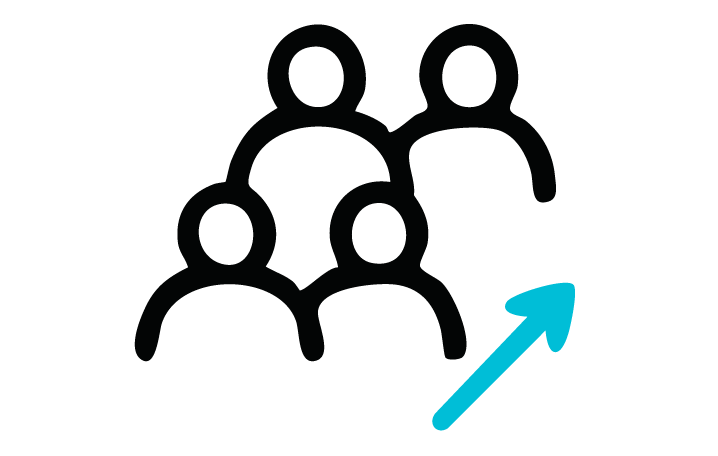
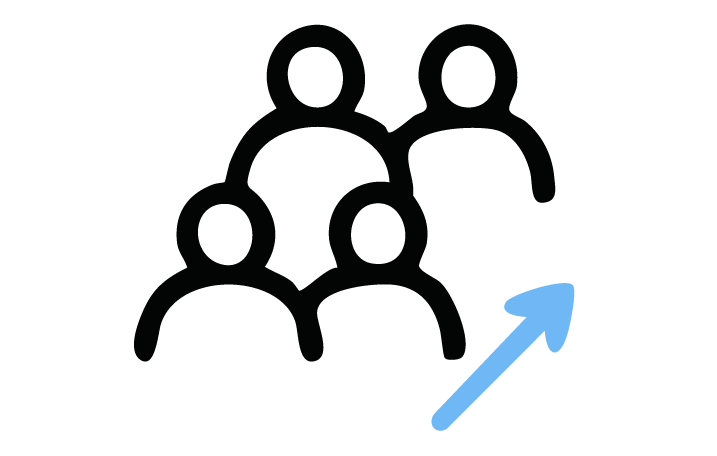
add texts

diff --git a/index.html b/index.html
@@ -108,7 +108,7 @@
 							<div class="container">
 								<div class="slider-caption slider-caption-center">
 									<div>
-										<h3 class="font-primary text-transform-none" style="font-size: 2.5rem; letter-spacing: -1px;line-height: 1.2em;color: #00bed7;">VANTAGE RESOURCE GROUP</h3>
+										<h3 class="font-primary text-transform-none" style="font-size: 2.5rem; letter-spacing: -1px;line-height: 1.2em;color: #6fb7f5;">VANTAGE RESOURCE GROUP</h3>
 										<h3 class="font-primary text-transform-none" style="font-size: 3rem; letter-spacing: -1px;line-height: 1.2em;">EMPOWERING LEADERS,<br>ENHANCING PERFORMANCE</h3>
 										<p class="fw-light font-primary d-none d-sm-block">Tailored leadership development and coaching for those <br>who build systems, serve people, and shape the future.</p>
 										<a href="#" class="button button-rounded button-large text-transform-none ls-0 font-primary">Let's talk</a>
@@ -175,7 +175,7 @@
 					</div>
 					<div class="row">
 						<div class="text-center col-lg-8 offset-lg-2 mb-5">
-							<h3 class="text-rotater font-secondary" data-separator="," data-rotate="fadeInRight" data-speed="3500"><span style="color: #00bed7;font-weight: 600;">Vantage Resource Group</span> helps leaders move beyond constant reaction and toward lasting impact. Through executive coaching, leadership development, culture engagement, and speaking, we help leaders and teams build clarity, ownership, and the capacity to lead sustainably.</h3>
+							<h3 class="text-rotater font-secondary" data-separator="," data-rotate="fadeInRight" data-speed="3500"><span style="color: #6fb7f5;font-weight: 600;">Vantage Resource Group</span> helps leaders move beyond constant reaction and toward lasting impact. Through executive coaching, leadership development, culture engagement, and speaking, we help leaders and teams build clarity, ownership, and the capacity to lead sustainably.</h3>
 						</div>
 
 						<div class="clear"></div>
@@ -308,7 +308,7 @@
 									<div class="col-lg-10 col-md-8">
 										<div class="feature-box fbox-plain">	
 											<div class="fbox-content">
-												<h3 style="color: #00bed7;">A Unifying Leadership Philosophy</h3>
+												<h3 style="color: #6fb7f5;">A Unifying Leadership Philosophy</h3>
 												<p>IMPACT is the lens through which all our work is designed and delivered. It aligns leaders around clarity, ownership, and sustainable decision-making — so growth is intentional, not reactive.</p>
 											</div>
 										</div>
@@ -316,7 +316,7 @@
 									<div class="col-lg-10 col-md-8">
 										<div class="feature-box fbox-plain">
 											<div class="fbox-content">
-												<h3 style="color: #00bed7;">A Practical Operating System for Leadership</h3>
+												<h3 style="color: #6fb7f5;">A Practical Operating System for Leadership</h3>
 												<p>IMPACT provides a structured yet flexible framework that guides coaching conversations, leadership programs, and culture engagements. It ensures consistency without rigidity.</p>
 											</div>
 										</div>
@@ -324,7 +324,7 @@
 									<div class="col-lg-10 col-md-8">
 										<div class="feature-box fbox-plain">
 											<div class="fbox-content">
-												<h3 style="color: #00bed7;">Delivered Through Experience</h3>
+												<h3 style="color: #6fb7f5;">Delivered Through Experience</h3>
 												<p>IMPACT is not a standalone product — it’s embedded within executive coaching, workshops, and learning experiences. Leaders encounter it in action, not theory.</p>
 											</div>
 										</div>
@@ -412,6 +412,11 @@
 									<h3 class="text-transform-none" style="font-size: 46px; font-weight: 700; letter-spacing: -2px; line-height: 58px">From Insight to Impact</h3>
 								</div>
 								<p class="fw-normal">Keynotes and workshops designed to shift leadership mindset, strengthen teams, and turn inspiration into lasting results.</p>
+								<ul class="fw-normal" style="padding-left: 1.25rem; line-height: 2;">
+									<li>Inspirational yet actionable</li>
+									<li>Tailored to your audience's specific challenges</li>
+									<li>Focused on the mindset and behaviors that drive real results</li>
+								</ul>
 								<a href="#" class="button-link mb-5">Read More</a>
 							</div>
 						</div>

diff --git a/css/custom.css b/css/custom.css
@@ -7,10 +7,29 @@
 
 
 /* ================================================================
+   Global Link & Button Color
+   ================================================================ */
+a,
+.button-link,
+.menu-link:hover,
+a.color {
+	color: #6fb7f5;
+}
+
+.button-link:hover {
+	color: #4da3e8;
+}
+
+.button:not(.button-border):not([class*="bg-"]) {
+	background-color: #6fb7f5;
+	border-color: #6fb7f5;
+}
+
+/* ================================================================
    VRG 5-Step Engagement Process
    ================================================================ */
 #vrg-process {
-	--vrg-accent: #00BED7;
+	--vrg-accent: #6fb7f5;
 }
 
 .vrg-scroll-container {

diff --git a/css/business.css b/css/business.css
@@ -3,8 +3,8 @@
 -----------------------------------------------------------------*/
 
 :root {
-	--cnvs-themecolor: #00BED7;
-	--cnvs-themecolor-rgb: 0, 190, 215;
+	--cnvs-themecolor: #6fb7f5;
+	--cnvs-themecolor-rgb: 111, 183, 245;
 
 	--cnvs-primary-font: 'Poppins', sans-serif;
 	--cnvs-body-font: 'Open Sans', sans-serif;
